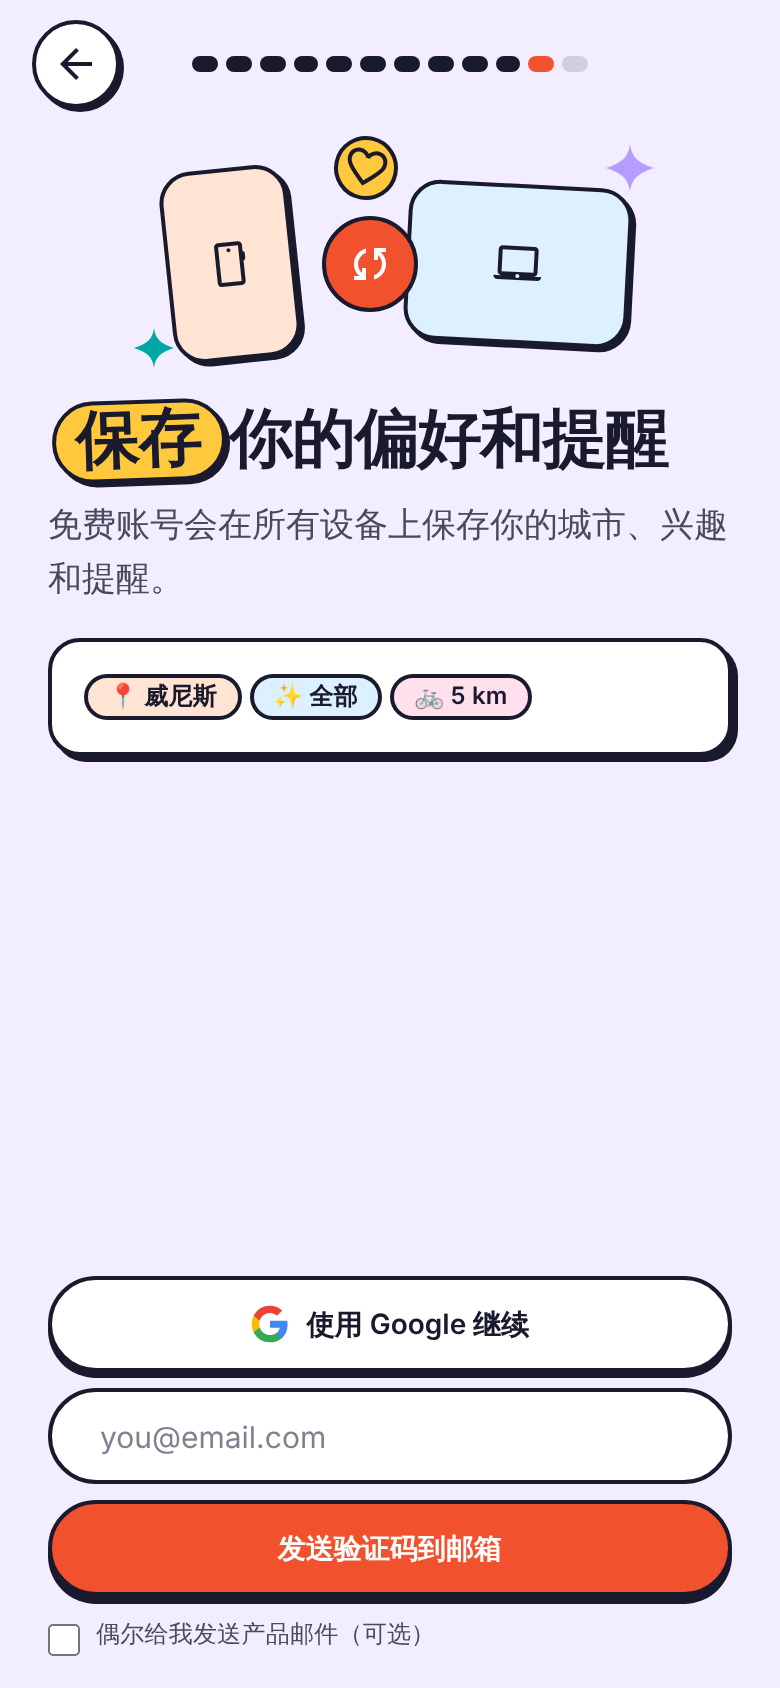
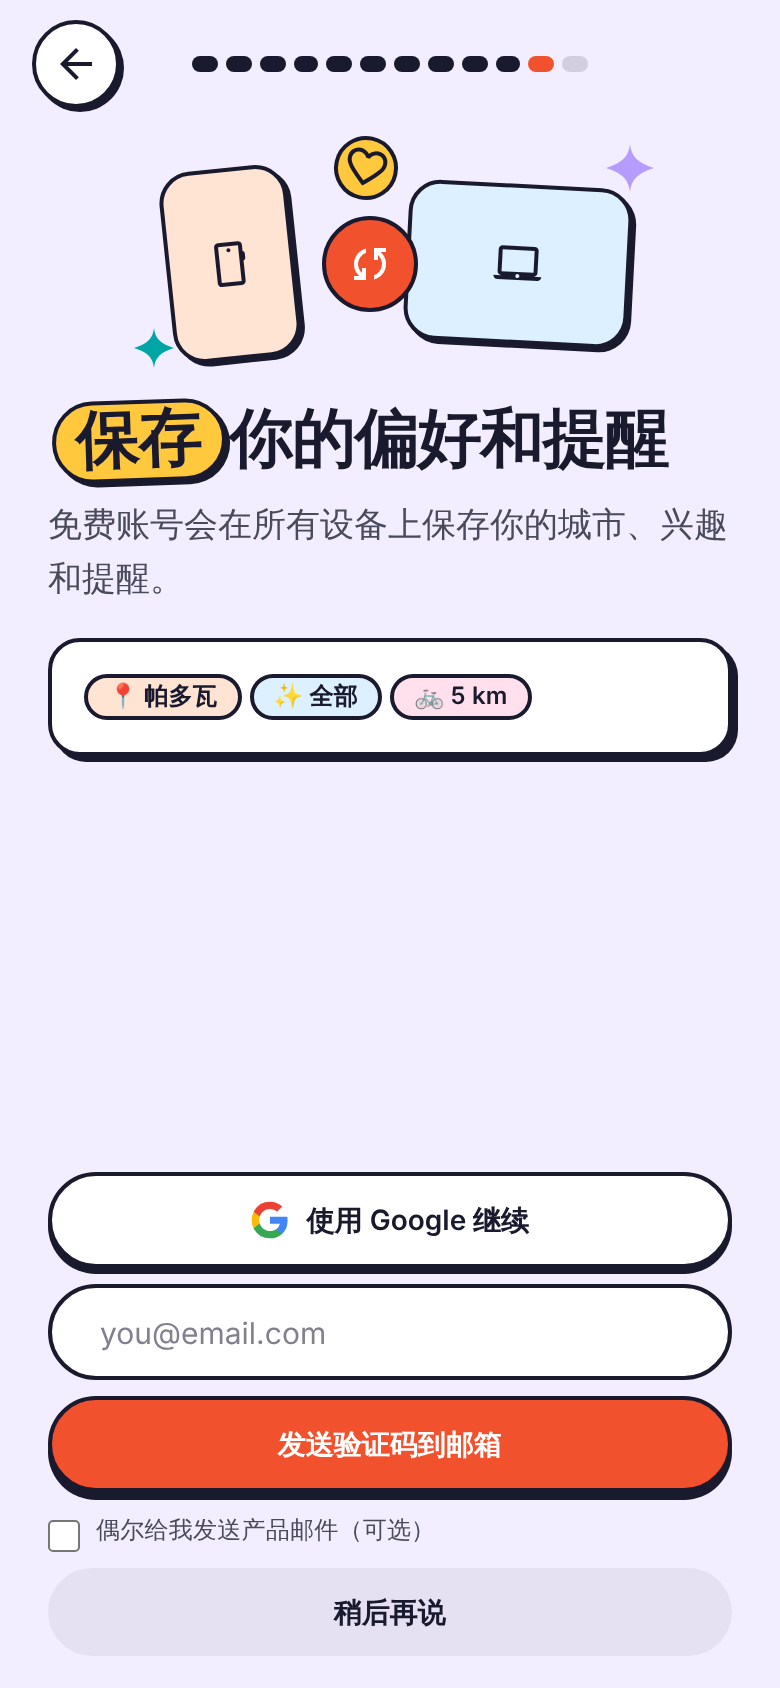
feat(onboarding): skippable account step in free mode
Claude-Session: https://claude.ai/code/session_01Jf64a35YQ4wJnfLC6xZrGm

diff --git a/components/onboarding/OnboardingFlow.free.test.tsx b/components/onboarding/OnboardingFlow.free.test.tsx
@@ -1,6 +1,8 @@
 import { afterEach, beforeEach, describe, expect, it, vi } from 'vitest';
 import { cleanup, click, flush, render } from '@/components/test/render';
+import { FILTER_PREFS_STORAGE_KEY } from '@/lib/filter-prefs/storage';
 import { ONBOARDING_COMPLETED_STORAGE_KEY } from '@/lib/paywall/gate';
+import { ONBOARDING_RESUME_STORAGE_KEY } from '@/lib/paywall/onboarding-flow';
 import { OnboardingFlow } from './OnboardingFlow';
 
 const auth = vi.hoisted(() => ({ user: null as null | { id: string }, email: null as null | string }));
@@ -60,14 +62,14 @@ function expectNoPaidWording(where: string) {
   for (const word of PAID_WORDS) expect(content.includes(word.toLowerCase()), `${where}: found "${word}"`).toBe(false);
 }
 
-async function walkToAccount(language: 'zh' | 'en' | 'it', onFinish = vi.fn()) {
+async function walkToAccount(language: 'zh' | 'en' | 'it', onFinish = vi.fn(), free = true) {
   await render(<OnboardingFlow onFinish={onFinish} />, language);
   await flush();
   const seen: string[] = [];
   const visit = async (expected: string) => {
     expect(screen()).toBe(expected);
     seen.push(expected);
-    expectNoPaidWording(`${language}/${expected}`);
+    if (free) expectNoPaidWording(`${language}/${expected}`);
   };
   await visit('hook');
   for (const step of ['how', 'weekly', 'map', 'favorites', 'trust', 'interests']) {
@@ -83,7 +85,7 @@ async function walkToAccount(language: 'zh' | 'en' | 'it', onFinish = vi.fn()) {
   await click(document.body.querySelector('[role="radio"]'));
   await click(byTestId('onboarding-continue'));
   await visit('preview');
-  expect(byTestId('preview-see-plans')).toBeNull();
+  if (free) expect(byTestId('preview-see-plans')).toBeNull();
   await click(byTestId('preview-save'));
   await visit('account');
   return { seen, onFinish };
@@ -108,6 +110,7 @@ describe('free onboarding', () => {
     // Signed out: sign-up is still required, no way past it.
     expect(byTestId('account-continue')).toBeNull();
     expect(byTestId('account-google')).not.toBeNull();
+    expect(byTestId('account-skip')).not.toBeNull();
   });
 
   it('trust step uses the free rows', async () => {
@@ -139,5 +142,55 @@ describe('free onboarding', () => {
     expect(onFinish).toHaveBeenCalled();
     expect(localStorage.getItem(ONBOARDING_COMPLETED_STORAGE_KEY)).toBe('1');
     expect(document.body.querySelector('[data-testid^="paywall"]')).toBeNull();
+  });
+
+  it('a signed-out visitor can skip the account step: finishes, applies the answers, feed stays open', async () => {
+    const { onFinish } = await walkToAccount('zh');
+    const skip = byTestId('account-skip')!;
+    expect(skip.textContent).toBe('稍后再说');
+    expect(skip.className).toContain('h-11');
+    await click(skip);
+    await flush();
+    expect(onFinish).toHaveBeenCalled();
+    expect(localStorage.getItem(ONBOARDING_COMPLETED_STORAGE_KEY)).toBe('1');
+    const prefs = JSON.parse(localStorage.getItem(FILTER_PREFS_STORAGE_KEY)!);
+    expect(prefs.radiusKm).toBe(1);
+    expect(prefs.city).not.toBe('all');
+    expect(Object.keys(prefs)).toEqual(expect.arrayContaining(['city', 'categories', 'radiusKm']));
+    // No alerts step (it needs an account), no paywall, nothing locked.
+    expect(document.body.querySelector('[data-testid="onboarding-overlay"]')).toBeNull();
+    expect(document.body.querySelector('[data-testid^="paywall"], [data-testid*="locked"]')).toBeNull();
+  });
+
+  it('a signed-in visitor sees Continue and no skip control', async () => {
+    auth.user = { id: 'u1' };
+    auth.email = 'a@b.it';
+    await walkToAccount('en');
+    expect(byTestId('account-continue')).not.toBeNull();
+    expect(byTestId('account-skip')).toBeNull();
+  });
+
+  it('paid mode keeps the required sign-up: no skip control', async () => {
+    vi.stubEnv('NEXT_PUBLIC_ONBOARDING_ENABLED', '');
+    vi.stubEnv('NEXT_PUBLIC_PAYWALL_ENABLED', 'true');
+    await walkToAccount('en', vi.fn(), false);
+    expect(byTestId('account-skip')).toBeNull();
+    expect(byTestId('account-continue')).toBeNull();
+  });
+
+  it('resume after the OAuth redirect still lands on the account step in free mode', async () => {
+    window.history.replaceState(null, '', '/?onboarding=resume');
+    sessionStorage.setItem(
+      ONBOARDING_RESUME_STORAGE_KEY,
+      JSON.stringify({ screen: 'account', city: 'venice', interests: ['books'], mobility: 'bike', radiusKm: 5, locationGranted: false }),
+    );
+    auth.user = { id: 'u1' };
+    auth.email = 'a@b.it';
+    await render(<OnboardingFlow onFinish={() => {}} />, 'zh');
+    await flush();
+    expect(screen()).toBe('account');
+    await click(byTestId('account-continue'));
+    expect(screen()).toBe('alerts');
+    window.history.replaceState(null, '', '/');
   });
 });

diff --git a/components/onboarding/steps/AccountStep.tsx b/components/onboarding/steps/AccountStep.tsx
@@ -39,6 +39,8 @@ type AccountStepProps = {
   onBeforeRedirect: () => void;
   /** Called when the user is authenticated and chooses to continue. */
   onContinue: () => void;
+  /** Free onboarding only: lets a signed-out visitor leave without an account. Paid mode never passes it. */
+  onSkip?: () => void;
 };
 
 /**
@@ -46,7 +48,7 @@ type AccountStepProps = {
  * reason to sign up is to keep the feed/alerts the user just built. Real Google + email code/link
  * auth (the code works when the emailed link opens in another browser). Signed-in users (or the QA stub) see a confirmation and Continue.
  */
-export function AccountStep({ copy, summary = [], onBeforeRedirect, onContinue }: AccountStepProps) {
+export function AccountStep({ copy, summary = [], onBeforeRedirect, onContinue, onSkip }: AccountStepProps) {
   const { messages } = useMessages();
   const { user, email, loading } = useAuthSession();
   const { signIn, isBusy } = useOAuthSignIn('/?onboarding=resume');
@@ -194,6 +196,17 @@ export function AccountStep({ copy, summary = [], onBeforeRedirect, onContinue }
               />
               <span>{copy.optIn}</span>
             </label>
+            {onSkip && (
+              <Button
+                type="button"
+                variant="ghost"
+                className={pop.ghostButton}
+                onClick={onSkip}
+                data-testid="account-skip"
+              >
+                {copy.notNow}
+              </Button>
+            )}
             {loading && <span className="sr-only">{messages.onboarding.account.body}</span>}
           </>
         )}

diff --git a/components/onboarding/OnboardingFlow.tsx b/components/onboarding/OnboardingFlow.tsx
@@ -373,6 +373,8 @@ export function OnboardingFlow({ onFinish }: { onFinish: () => void }) {
               summary={answerChips}
               onBeforeRedirect={persistForRedirect}
               onContinue={() => dispatch({ type: 'next' })}
+              // Alerts need an account (push subscribe returns not_logged_in), so skipping also skips that step.
+              onSkip={freeMode ? () => dispatch({ type: 'finish' }) : undefined}
             />
           ) : (
             <>

diff --git a/messages/zh.ts b/messages/zh.ts
@@ -532,6 +532,8 @@ export const messages: Messages = {
       switchAccount: '不是你？换一个账号',
       switchingAccount: '正在退出…',
       payingAs: (email: string) => `付款账号：${email}`,
+      /** Free onboarding only: the account step can be skipped. */
+      notNow: '稍后再说',
     },
     alerts: {
       title: '第一时间知道新好物',

diff --git a/messages/it.ts b/messages/it.ts
@@ -563,6 +563,8 @@ export const messages = {
       switchAccount: 'Non sei tu? Usa un altro account',
       switchingAccount: 'Disconnessione…',
       payingAs: (email: string) => `Paghi come ${email}`,
+      /** Free onboarding only: the account step can be skipped. */
+      notNow: 'Non ora',
     },
     alerts: {
       title: 'Arriva prima sulle novità',

diff --git a/messages/en.ts b/messages/en.ts
@@ -550,6 +550,8 @@ export const messages: Messages = {
       switchAccount: 'Not you? Use another account',
       switchingAccount: 'Signing out…',
       payingAs: (email: string) => `Paying as ${email}`,
+      /** Free onboarding only: the account step can be skipped. */
+      notNow: 'Not now',
     },
     alerts: {
       title: 'Be first to new finds',

diff --git a/.planning/quick/261115-free-onboarding/SUMMARY.md b/.planning/quick/261115-free-onboarding/SUMMARY.md
@@ -44,3 +44,18 @@ flow whatever the onboarding flag says; both off = no onboarding.
 - The preview-step photos are blank in screenshots because the sandbox cannot reach the image CDN.
 - Trust step icons (receipt, lock) are fixed per row index and now sit on the free rows; cosmetic only.
 - `launch.sh` of the verify skill cannot pass the onboarding flag; the builds were run by hand with the env set.
+
+## Update: skippable account step (owner decision, free mode only)
+- `AccountStep` takes an optional `onSkip`; `OnboardingFlow` passes it only in free mode. A signed-out visitor sees a text-style
+  ghost button below the sign-in options (zh `稍后再说`, en `Not now`, it `Non ora`; new key `onboarding.account.notNow`; 44px high).
+  Signed-in visitors see Continue and no skip; paid mode never gets the control (sign-up stays required there).
+- Alerts for a signed-out visitor: `requestPushPermissionAndSubscribe()` returns `not_logged_in` without a session (and `/api/push/subscribe`
+  needs auth), so enabling alerts cannot work. "Not now" therefore finishes the flow directly instead of showing an alerts step that fails.
+  The finish effect applies city/interests/radius, writes the completed flag and clears resume state as before.
+- Copy: the account heading/subtitle say "free account … saves your preferences", nothing says it is mandatory; unchanged.
+- Verified in a production-style build (onboarding flag only, Playwright 390x844 zh): first-time visit shows the flow; at the account step
+  the skip button is 44px high and there is no horizontal overflow; tapping it closes the flow onto the open feed with the chosen city
+  (帕多瓦) applied and the completed flag set; reload shows no flow; a browser with `shoumanwu_filter_prefs` set gets no flow and the flag
+  is written. Screenshots `11-account.png` (with the control) and `20-feed-after.png` retaken.
+- Not verified: a real sign-in after skipping (later sign-in from Settings); the picked interest chip did not produce a category filter in that
+  run (`categories: []`, existing mapping behaviour, not touched here).
